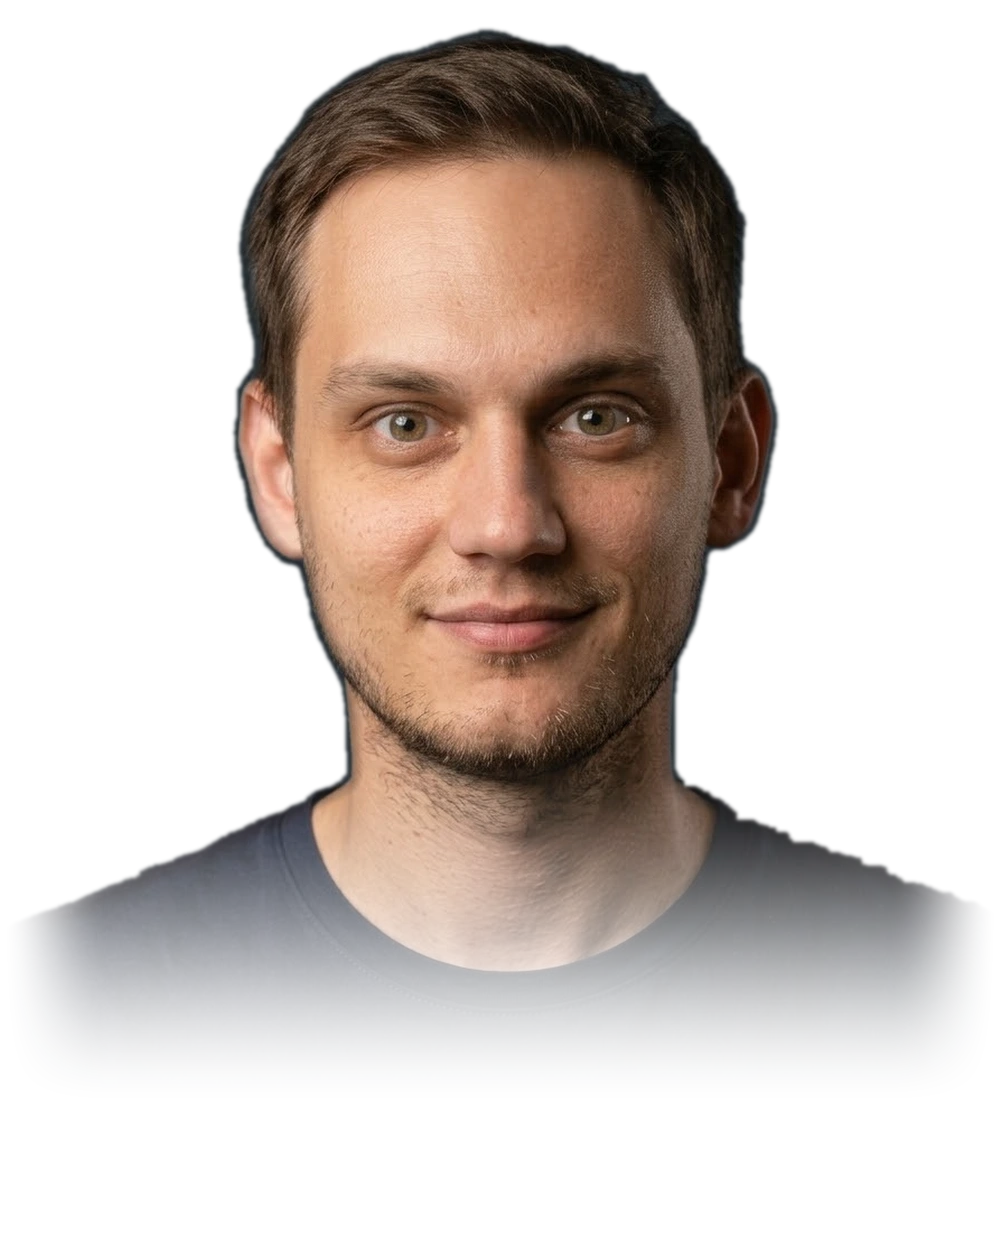
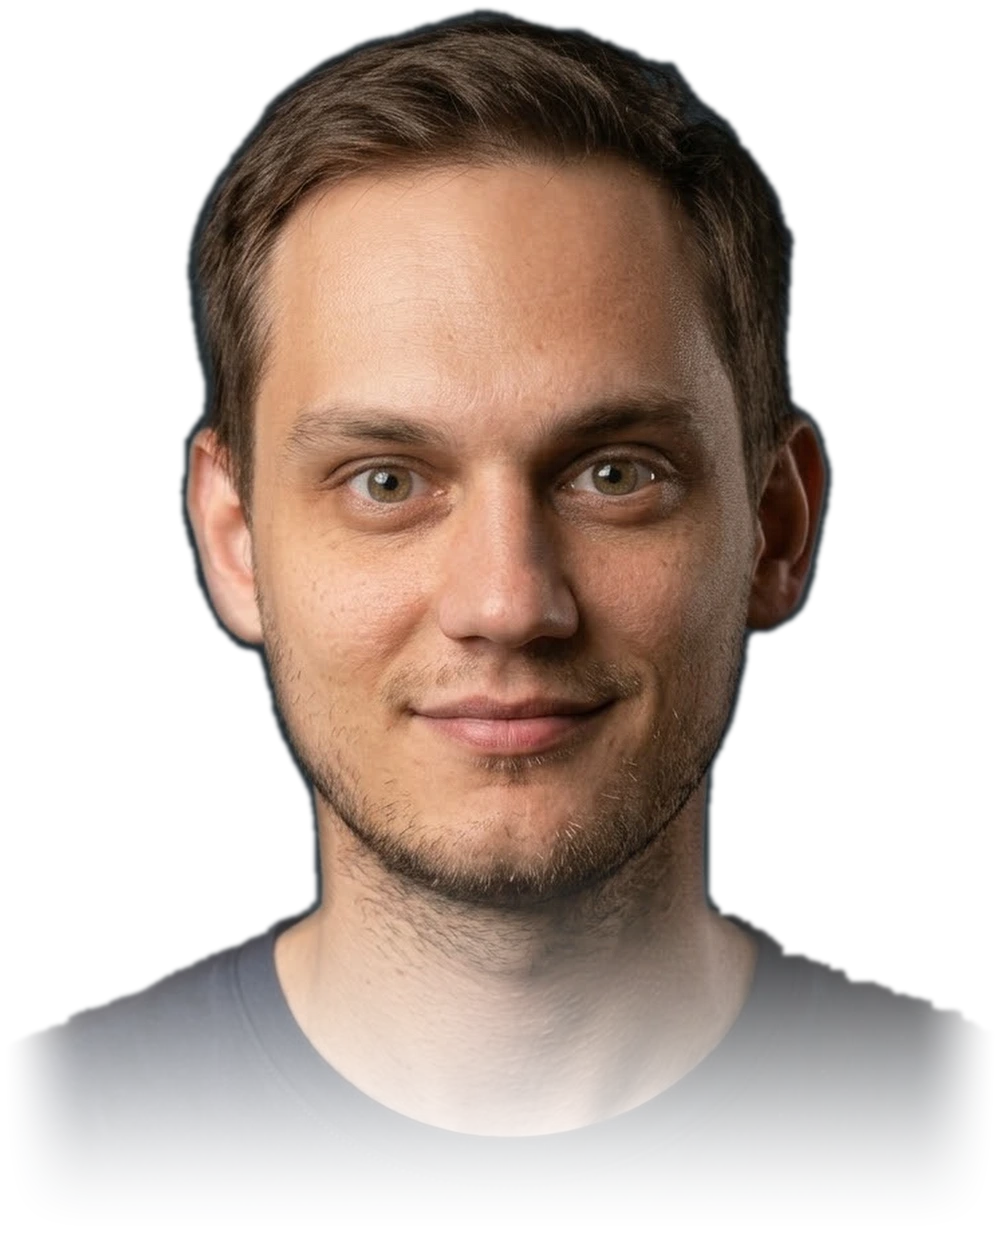
Hero (>=1280): taller copy column, bigger portrait; swap hero-card.webp
.copy's vertical padding 80px -> 112px (top/bottom only, left/right and
kegli untouched). .portrait stretches to match via align-self:stretch
on the same grid row, so the photo fills the taller panel automatically.
H1 still fits in 2 lines at 70px on 1280 and 1920.

public/hero-card.webp replaced with the new crop (same filename, used
unchanged by Proof's metrics-block photo below 1280 — no style changes
there).

Claude-Session: https://claude.ai/code/session_01NtvqXs4JSE1z6mAa41T4Lx

diff --git a/src/components/Hero.tsx b/src/components/Hero.tsx
@@ -103,7 +103,7 @@ export const Hero = ({ lang, place, heroA, heroB, mobileLines, cta, waLink, port
           display: flex;
           flex-direction: column;
           gap: 21px;
-          padding: 80px 48px 80px 0;
+          padding: 112px 48px 112px 0;
           border-right: 1px solid ${T.home.color.ruleLight};
         }
 
